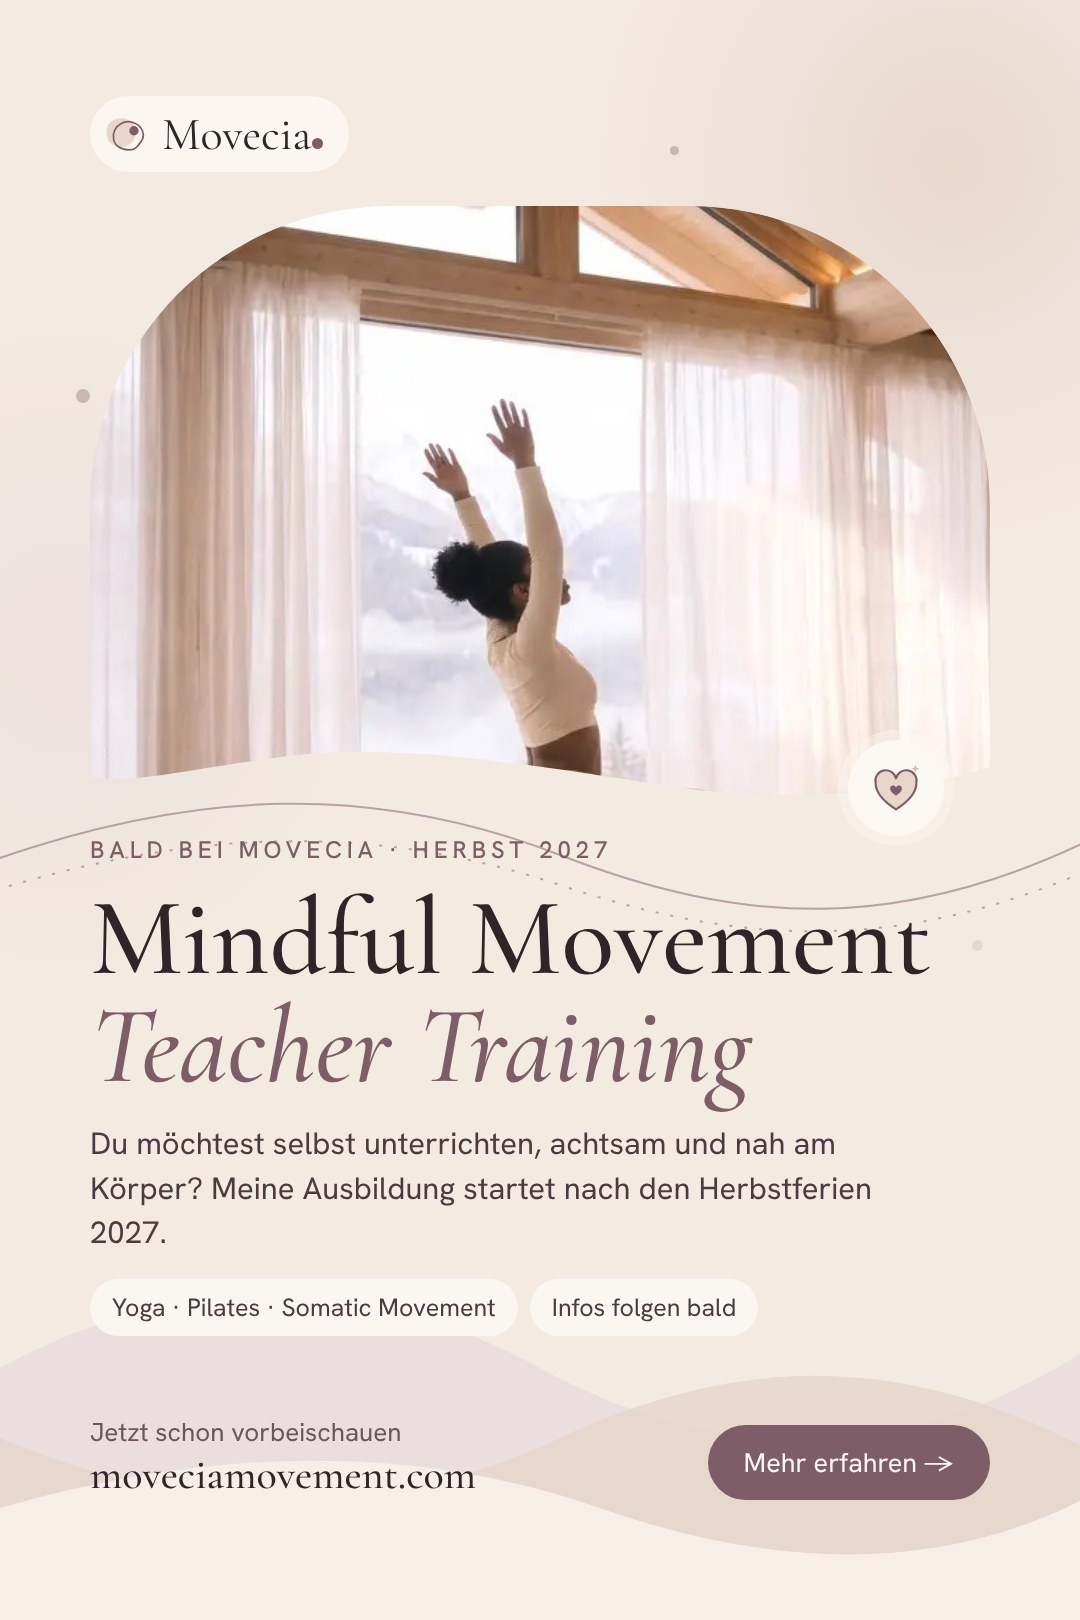
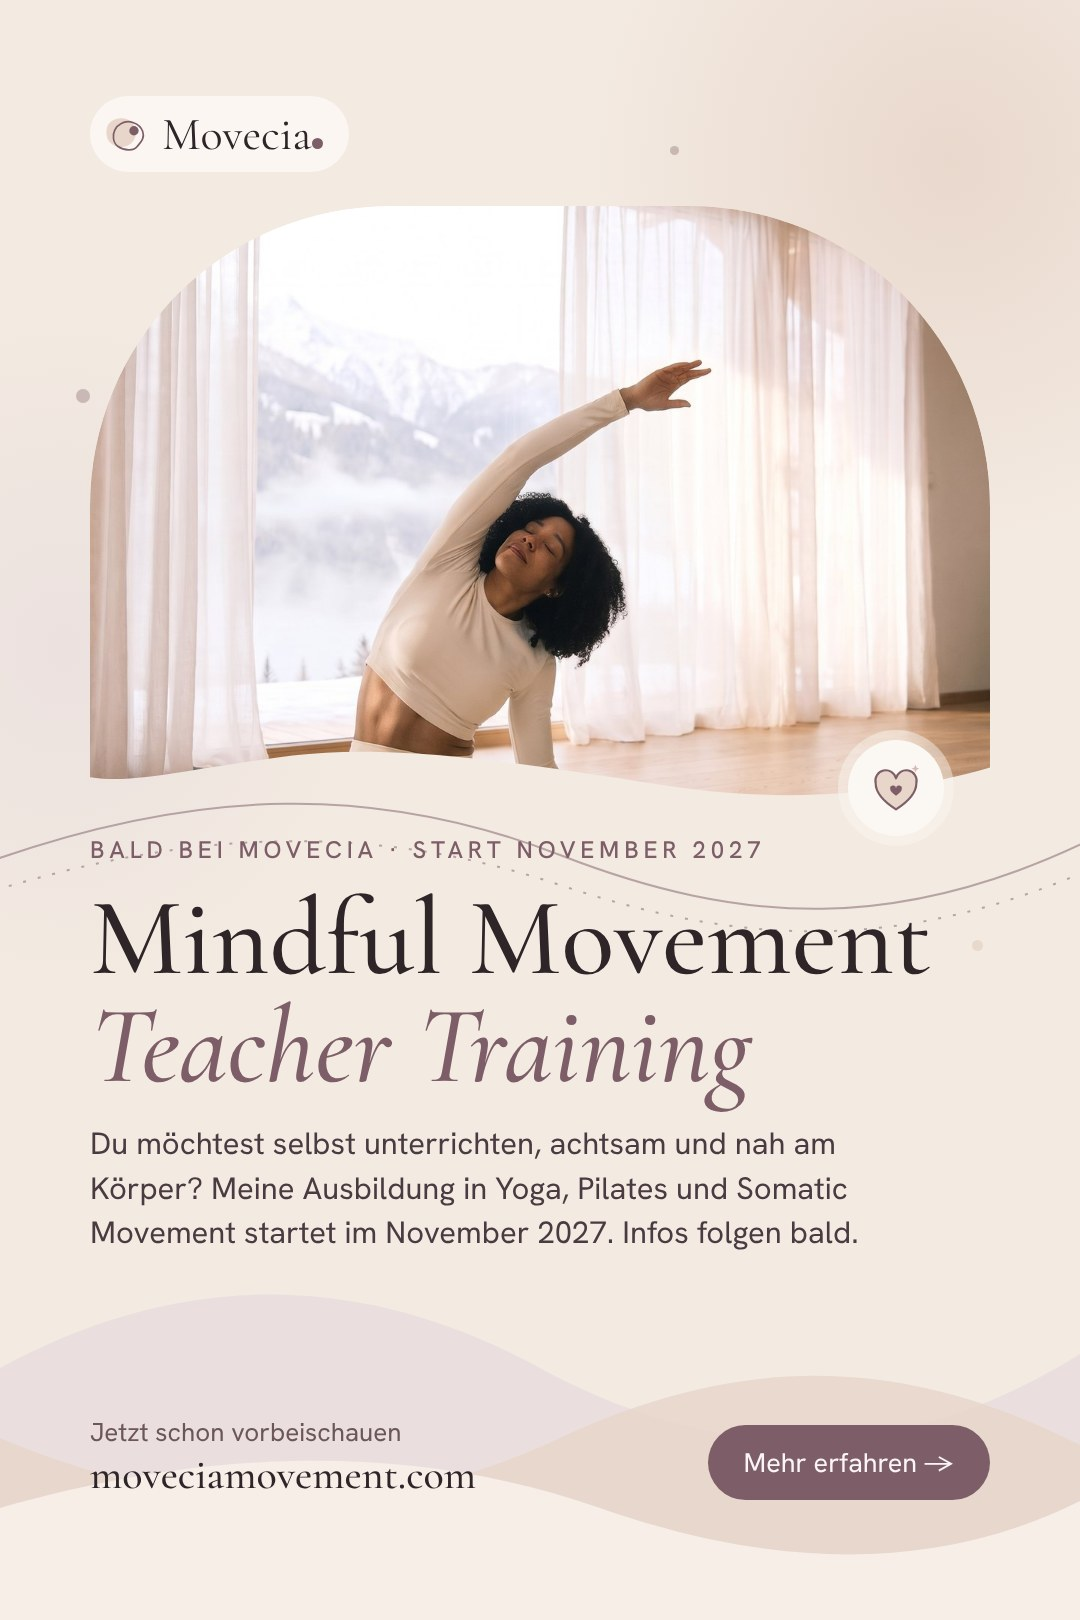
Pinterest Movecia: Teacher-Training-Teaser November 2027, klareres Foto
Claude-Session: https://claude.ai/code/session_01NPiwcEmN36GpACiYCKgmmh

diff --git a/tools/pinterest-movecia/README.md b/tools/pinterest-movecia/README.md
@@ -3,11 +3,12 @@
 Vivien will maximale Sichtbarkeit, damit Frauen Method, Unfold und Prä-/Postnatal buchen.
 Geplante Aufgaben: Montag, Mittwoch, Freitag. Profil (seit 28.10.2026): „Movecia · Mindful Movement“, pinterest.at/moveciamovement
 (hello@moveciamovement.com), verknüpft mit FORMA und Frida & Knox: in Chrome oben rechts Pfeil neben dem Profilbild → Movecia wählen.
-Profil eingerichtet (Profilbild `img/movecia/movecia-profilbild-1080.png`, Kurzinfo, Website, Impressum-Link /terms/), alle 6 Pinnwände angelegt, dazu „Mindful Movement Teacher Training“ (Vivien, 28.10.2026: Teaser posten, Start nach den Herbstferien 2027; Link auf die Hauptseite, bis /teacher-training/ o. Ä. live ist, dann Pins dorthin verlinken).
+Profil eingerichtet (Profilbild `img/movecia/movecia-profilbild-1080.png`, Kurzinfo, Website, Impressum-Link /terms/), alle 6 Pinnwände angelegt, dazu „Mindful Movement Teacher Training“ (Vivien, 28.10.2026: Teaser posten, Start November 2027; Link auf die Hauptseite, bis /teacher-training/ o. Ä. live ist, dann Pins dorthin verlinken).
 Ist Movecia nicht im Menü: nichts anlegen, Vivien Bescheid geben und den fertigen Pin als Bild schicken.
 
 Veröffentlichen am einfachsten (seit 28.10.2026): https://at.pinterest.com/pin-creation-tool/ → Datei-Upload mit dem Pin aus dem Repo
 (file_upload, kein Warten auf die Live-Seite nötig) → Titel, Beschreibung, Link, Pinnwand, unter „Weitere Optionen“ Alt-Text → „Veröffentlichen“.
+Fotos: Hochformat-Fotos 640 px werden im breiten Bogen stark vergrößert und unscharf; besser große Fotos (ev-ueber-mich, pt-*, ev-start*, ev-method, ev-natal-sitzend) nehmen und Person ganz sichtbar halten (Vivien, 28.10.2026).
 Pin-URL: neuester Pin unter https://at.pinterest.com/moveciamovement/_created/.
 Nach „Pinnwand erstellen“ kommt ein Fenster mit Pin-Vorschlägen: dort NICHTS anklicken außer „Fertig“, sonst wird ein fremder Pin gemerkt.
 
